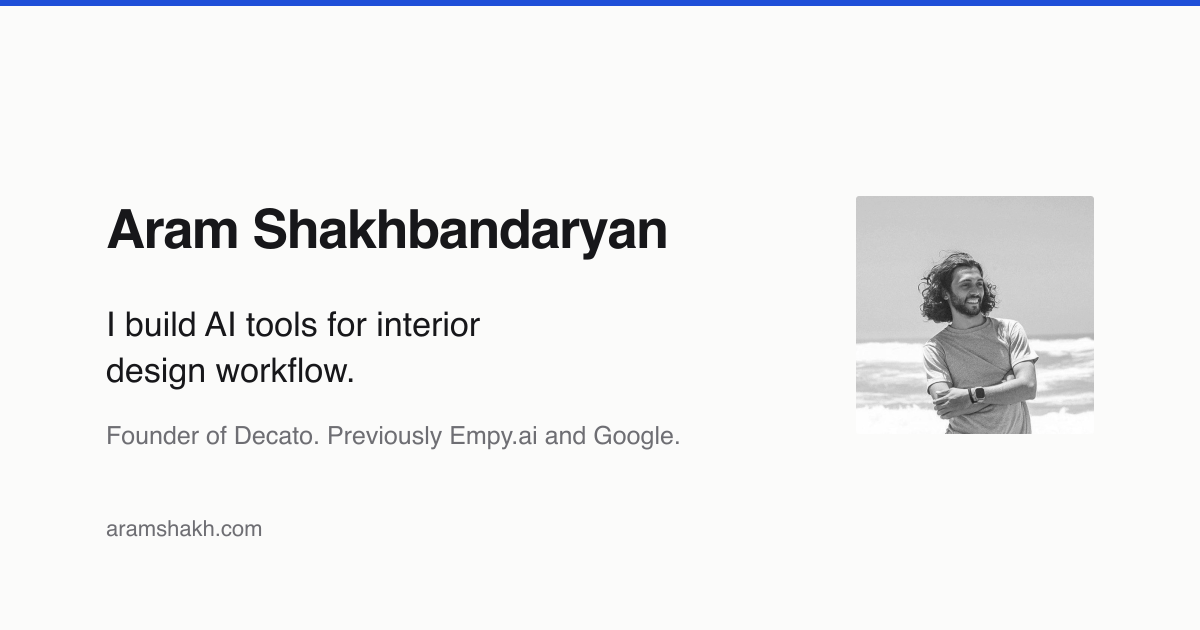
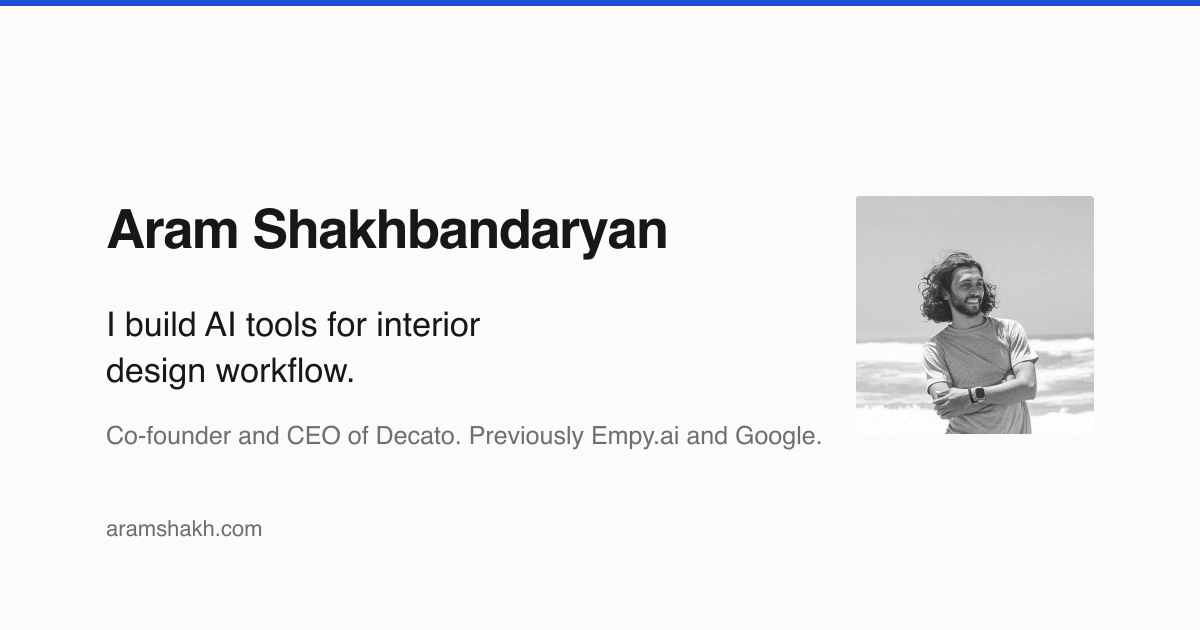
Correct role, contact, dates and the Empy outcome
Checked against the canonical profile in the Hermes memory backup and the
LinkedIn data export of 2026-08-22.

- aram@empy.ai is legacy per the canonical profile; use aram@decato.ai
- Title is co-founder and CEO, not founder; Vladimir Borisov named
- Dates were inferred and wrong: Empy is Dec 2021 to May 2026, Google
  Jul 2020 to Nov 2021
- Empy now states its outcome: 4,000 users, $165K raised, $1.4K MRR peak,
  closed in 2026, rather than trailing off after "founder"
- Bios and OG image regenerated to match

Changed region(s): [[0.0925, 0.6635, 0.6783, 0.7238]]

diff --git a/index.html b/index.html
@@ -4,7 +4,7 @@
 <meta charset="utf-8">
 <meta name="viewport" content="width=device-width, initial-scale=1">
 <title>Aram Shakhbandaryan</title>
-<meta name="description" content="Aram Shakhbandaryan builds AI tools for interior design workflow. Founder of Decato, previously Empy.ai and Google.">
+<meta name="description" content="Aram Shakhbandaryan builds AI tools for interior design workflow. Co-founder and CEO of Decato, previously Empy.ai and Google.">
 <link rel="canonical" href="https://aramshakh.com/">
 <meta name="theme-color" content="#fbfbfa" media="(prefers-color-scheme: light)">
 <meta name="theme-color" content="#121214" media="(prefers-color-scheme: dark)">
@@ -13,7 +13,7 @@
 <meta property="og:type" content="profile">
 <meta property="og:site_name" content="Aram Shakhbandaryan">
 <meta property="og:title" content="Aram Shakhbandaryan">
-<meta property="og:description" content="I build AI tools for interior design workflow. Founder of Decato, previously Empy.ai and Google.">
+<meta property="og:description" content="I build AI tools for interior design workflow. Co-founder and CEO of Decato, previously Empy.ai and Google.">
 <meta property="og:url" content="https://aramshakh.com/">
 <meta property="og:image" content="https://aramshakh.com/assets/og.png">
 <meta property="og:image:width" content="1200">
@@ -28,8 +28,8 @@
   "name": "Aram Shakhbandaryan",
   "url": "https://aramshakh.com/",
   "image": "https://aramshakh.com/assets/og.png",
-  "jobTitle": "Founder",
-  "email": "mailto:aram@empy.ai",
+  "jobTitle": "Co-founder and CEO",
+  "email": "mailto:aram@decato.ai",
   "worksFor": { "@type": "Organization", "name": "Decato", "url": "https://decato.ai" },
   "alumniOf": [
     { "@type": "Organization", "name": "Google" },
@@ -63,18 +63,18 @@
   <dl class="spine">
     <div>
       <dt>Now</dt>
-      <dd><span class="role">Decato</span>, founder.
-        <span class="note">Interior design workflow software. Floor plan in, furnished and sourceable room out.</span>
+      <dd><span class="role">Decato</span>, co-founder and CEO.
+        <span class="note">Interior design workflow software. Floor plan in, furnished and sourceable room out. Built with my co-founder Vladimir Borisov.</span>
       </dd>
     </div>
     <div>
-      <dt>2022 to 2026</dt>
-      <dd><span class="role">Empy.ai</span>, founder.
-        <span class="note">Communication intelligence for high-stakes calls. $165K pre-seed, Draper University and Plug and Play Armenia. Second product of the day on Product Hunt.</span>
+      <dt>Dec 2021 to May 2026</dt>
+      <dd><span class="role">Empy.ai</span>, co-founder and CEO.
+        <span class="note">Communication intelligence for high-stakes calls. 4,000 users, a $165K pre-seed, Draper University and Plug and Play Armenia. It peaked at $1.4K MRR and I closed it in 2026.</span>
       </dd>
     </div>
     <div>
-      <dt>Until 2022</dt>
+      <dt>2020 to 2021</dt>
       <dd><span class="role">Google</span>, analytical consultant.
         <span class="note">B2B SaaS and fintech clients across several regions.</span>
       </dd>
@@ -88,7 +88,7 @@
   </dl>
 
   <div class="contact">
-    <a href="mailto:aram@empy.ai">aram@empy.ai</a>
+    <a href="mailto:aram@decato.ai">aram@decato.ai</a>
     <a href="https://www.linkedin.com/in/aram-empy" rel="me">LinkedIn</a>
     <a href="https://decato.ai">decato.ai</a>
   </div>

diff --git a/about/index.html b/about/index.html
@@ -35,13 +35,13 @@
 
     <p>I build software for interior design workflow. Decato takes a floor plan and a brief, lays out an editable room, sources real products that actually fit, renders from that furniture, and assembles a client-ready deck. The interesting part is not the render. It is that everything in the room can be bought.</p>
 
-    <p>Before Decato I founded Empy.ai. It started as a Slack bot that caught conflict in team chat and became communication intelligence for high-stakes calls: real-time coaching during a negotiation, and a short report afterwards. We raised a $165K pre-seed, went through Draper University and Plug and Play Armenia, and hit second product of the day on Product Hunt.</p>
+    <p>Before Decato I spent four years on Empy.ai. It started as a Slack bot that caught conflict in team chat and became communication intelligence for high-stakes calls. We reached 4,000 users, raised a $165K pre-seed, went through Draper University and Plug and Play Armenia, and hit second product of the day on Product Hunt. It peaked at $1.4K MRR, which was never enough to stand on, and in 2026 I closed it. Decato is the next attempt on a much narrower wedge.</p>
 
-    <p>Before that I was an analytical consultant at Google, working with large B2B SaaS and fintech clients across several regions. Earlier still: product, growth, analytics, and launch work at adidas, Artec 3D, and Krisp.</p>
+    <p>Before that I was an analytical consultant at Google from 2020 to 2021, working with large B2B SaaS and fintech clients across the US, EU and APAC. Earlier still: product management at inKin, marketing lead at Cryptology in Singapore, and performance work at Krisp, Artec 3D and adidas.</p>
 
     <p>The thread through all of it is workflow. I am drawn to products that carry someone from inspiration or a report all the way to output they can ship, rather than stopping at a demo that impresses and then leaves the real work untouched.</p>
 
-    <p>I live in Yerevan. The fastest way to reach me is <a href="mailto:aram@empy.ai">email</a>.</p>
+    <p>I build Decato with my co-founder Vladimir Borisov. I live in Yerevan, and the fastest way to reach me is <a href="mailto:aram@decato.ai">email</a>.</p>
   </div>
 
   <h2>What I am useful for</h2>

diff --git a/press/index.html b/press/index.html
@@ -32,7 +32,7 @@
 
   <div class="prose">
     <h1>Press kit</h1>
-    <p>Everything here is free to use without asking. Name spelling is <strong>Aram Shakhbandaryan</strong>, preferred title is founder of Decato. Based in Yerevan, available for remote interviews across European and US hours.</p>
+    <p>Everything here is free to use without asking. Name spelling is <strong>Aram Shakhbandaryan</strong>, preferred title is co-founder and CEO of Decato. Based in Yerevan, available for remote interviews across European and US hours.</p>
   </div>
 
   <h2>Bios</h2>
@@ -95,7 +95,7 @@
 
   <footer>
     Most coverage so far is about Empy.ai. Decato is newer and has not been written up yet.
-    For anything missing, <a href="mailto:aram@empy.ai">email me</a>.
+    For anything missing, <a href="mailto:aram@decato.ai">email me</a>.
   </footer>
 
 </main>
